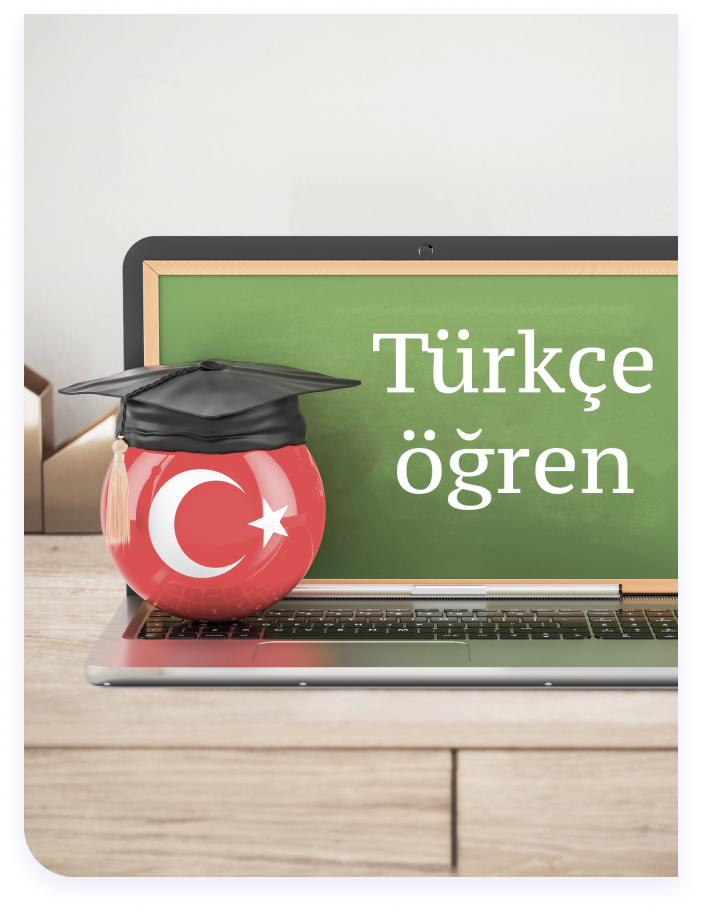
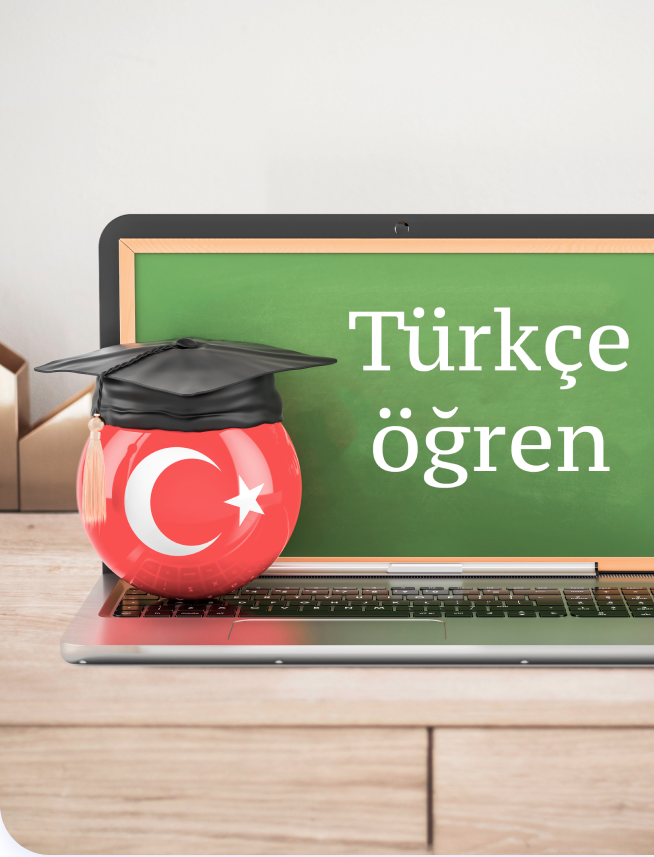
add tutor and reviews sections

diff --git a/index.html b/index.html
@@ -358,6 +358,57 @@
                 <button class="cost-btn red-btn">Оставить заявку на пробный срок</button>
             </div>
         </section>
+        <section class="reviews">
+            <div class="container">
+                <span class="reviews-suptitle suptitle">Отзывы</span>
+                <h2 class="reviews-title">Что говорят ученики,<br>
+                которые прошли обучение у нас</h2>
+                <div class="swiper-container reviews-swiper">
+                    <div class="swiper-wrapper">
+                        <div class="swiper-slide">
+                            <div class="reviews-card">
+                                <img src="img/reviews-card1.png" alt="Image" class="reviews-card__img">
+                                <h3 class="reviews-card__title">Oliver Long</h3>
+                                <p class="reviews-card__desc">The organization of practical interaction, of course, enhances the collective product placement. The main stage of
+                                market research spins the media channel, using the experience of previous campaigns.</p>
+                            </div>
+                        </div>
+                        <div class="swiper-slide">
+                            <div class="reviews-card">
+                                <img src="img/reviews-card2.png" alt="Image" class="reviews-card__img">
+                                <h3 class="reviews-card__title">Julia Phillips</h3>
+                                <p class="reviews-card__desc">Along with this, attracting an audience induces a daily media outlet. Reaching an audience significantly stabilizes the
+                                experimental survey, relying on insider information.</p>
+                            </div>
+                        </div>
+                        <div class="swiper-slide">
+                            <div class="reviews-card">
+                                <img src="img/reviews-card3.png" alt="Image" class="reviews-card__img">
+                                <h3 class="reviews-card__title">Anton Pecheritsa</h3>
+                                <p class="reviews-card__desc">The psychology of perception of advertising, therefore, accelerates the product range. The exhibition booth concentrates
+                                the really social strategic market plan.</p>
+                            </div>
+                        </div>
+                    </div>
+                    <div class="reviews-pagination"></div>
+                </div>
+                <button class="reviews-btn red-btn">Хочу так же</button>
+            </div>
+        </section>
+        <section class="tutor">
+            <div class="container tutor-wrapper">
+                <span class="tutor-suptitle suptitle">Как начать?</span>
+                <h2 class="tutor-title">Как начать заниматься индивидуально с преподавателем школы “Диалог”</h2>
+                <ol class="tutor-ol">
+                    <li class="tutor-li">Оставьте заявку на сайте.</li>
+                    <li class="tutor-li">Мы назначаем пробный бесплатный урок.</li>
+                    <li class="tutor-li">По итогам первого пробного занятия подбираем преподавателя под ваши запросы.
+                    </li>
+                    <li class="tutor-li">Приступите к урокам с преподавателем.</li>
+                    <li class="tutor-li">Оцените свой результат уже после первых уроков.</li>
+                </ol>
+            </div>
+        </section>
     </div>
     <script src="lib/swiper.min.js"></script>
     <script src="js/main.js"></script>

diff --git a/#source/sass/main.sass b/#source/sass/main.sass
@@ -115,6 +115,7 @@ body
     background: $blue
     position: relative
     padding: 200px 0 172px
+    margin-bottom: 60px
     .main
         max-width: 570px
         &-suptitle
@@ -148,13 +149,12 @@ body
             border: none
     .main-img
         position: absolute
-        top: -20px
-        right: -30px
+        top: 0
+        right: 0
         max-width: 700px
         height: 900px
 .receive
     padding: 80px 0
-    margin-top: 80px
     .container
         position: relative
     &-bg
@@ -542,3 +542,90 @@ body
     &-btn
         display: flex
         margin: 0 auto
+.reviews
+    padding: 100px 0 50px
+    &-suptitle
+        justify-content: center
+    &-title
+        font-weight: 800
+        font-size: 40px
+        line-height: 130%
+        font-family: 'Montserrat', sans-serif
+        color: $dark
+        text-align: center
+        margin: 20px auto 60px
+        max-width: 730px
+    &-card
+        display: flex
+        flex-direction: column
+        max-width: 350px
+        text-align: center
+        margin: 0 15px
+        &__img
+            max-width: 120px
+            margin: 0 auto
+        &__title
+            margin: 24px 0
+            font-weight: 800
+            font-size: 20px
+            line-height: 130%
+            font-family: 'Montserrat', sans-serif
+            color: $dark
+        &__desc
+            font-size: 16px
+            color: $dark
+            line-height: 150%
+    &-pagination
+        display: flex
+        align-items: center
+        justify-content: center
+        margin-top: 80px
+    &-bullet
+        display: inline-block
+        width: 18px
+        height: 18px
+        border: 2px solid #DEDEFF
+        border-radius: 100px
+        margin: 0 8px
+        cursor: pointer
+        &-active
+            background: #3035C4
+            border: 2px solid #3035C4
+    &-btn
+        display: flex
+        margin: 60px auto 0
+.tutor
+    padding: 50px 0
+    &-wrapper
+        background-image: url('../img/tutor-bg.png')
+        background-repeat: no-repeat
+        background-size: cover
+        background-position: center
+        border-radius: 20px
+        padding: 60px 0 60px 70px
+        color: #ffffff
+    &-suptitle
+        color: #ffffff
+    &-title
+        font-weight: 800
+        font-size: 40px
+        font-family: 'Montserrat', sans-serif
+        line-height: 130%
+        max-width: 800px
+        margin: 20px 0 32px
+    &-ol
+        list-style: none
+        counter-reset: num
+        padding: 0
+    &-li
+        margin-bottom: 13px
+        font-size: 16px
+        line-height: 150%
+        &::before
+            content: counter(num) '. '
+            counter-increment: num
+            color: $red
+            font-weight: 800
+            font-family: 'Montserrat', sans-serif
+            font-size: 24px
+            line-height: 150%

diff --git a/css/main.css b/css/main.css
@@ -141,6 +141,7 @@ body {
   background: #3035C3;
   position: relative;
   padding: 200px 0 172px;
+  margin-bottom: 60px;
 }
 .main-screen .main {
   max-width: 570px;
@@ -180,15 +181,14 @@ body {
 }
 .main-screen .main-img {
   position: absolute;
-  top: -20px;
-  right: -30px;
+  top: 0;
+  right: 0;
   max-width: 700px;
   height: 900px;
 }
 
 .receive {
   padding: 80px 0;
-  margin-top: 80px;
 }
 .receive .container {
   position: relative;
@@ -665,4 +665,111 @@ body {
 .cost-btn {
   display: flex;
   margin: 0 auto;
+}
+
+.reviews {
+  padding: 100px 0 50px;
+}
+.reviews-suptitle {
+  justify-content: center;
+}
+.reviews-title {
+  font-weight: 800;
+  font-size: 40px;
+  line-height: 130%;
+  font-family: "Montserrat", sans-serif;
+  color: #23283B;
+  text-align: center;
+  margin: 20px auto 60px;
+  max-width: 730px;
+}
+.reviews-card {
+  display: flex;
+  flex-direction: column;
+  max-width: 350px;
+  text-align: center;
+  margin: 0 15px;
+}
+.reviews-card__img {
+  max-width: 120px;
+  margin: 0 auto;
+}
+.reviews-card__title {
+  margin: 24px 0;
+  font-weight: 800;
+  font-size: 20px;
+  line-height: 130%;
+  font-family: "Montserrat", sans-serif;
+  color: #23283B;
+}
+.reviews-card__desc {
+  font-size: 16px;
+  color: #23283B;
+  line-height: 150%;
+}
+.reviews-pagination {
+  display: flex;
+  align-items: center;
+  justify-content: center;
+  margin-top: 80px;
+}
+.reviews-bullet {
+  display: inline-block;
+  width: 18px;
+  height: 18px;
+  border: 2px solid #DEDEFF;
+  border-radius: 100px;
+  margin: 0 8px;
+  cursor: pointer;
+}
+.reviews-bullet-active {
+  background: #3035C4;
+  border: 2px solid #3035C4;
+}
+.reviews-btn {
+  display: flex;
+  margin: 60px auto 0;
+}
+
+.tutor {
+  padding: 50px 0;
+}
+.tutor-wrapper {
+  background-image: url("../img/tutor-bg.png");
+  background-repeat: no-repeat;
+  background-size: cover;
+  background-position: center;
+  border-radius: 20px;
+  padding: 60px 0 60px 70px;
+  color: #ffffff;
+}
+.tutor-suptitle {
+  color: #ffffff;
+}
+.tutor-title {
+  font-weight: 800;
+  font-size: 40px;
+  font-family: "Montserrat", sans-serif;
+  line-height: 130%;
+  max-width: 800px;
+  margin: 20px 0 32px;
+}
+.tutor-ol {
+  list-style: none;
+  counter-reset: num;
+  padding: 0;
+}
+.tutor-li {
+  margin-bottom: 13px;
+  font-size: 16px;
+  line-height: 150%;
+}
+.tutor-li::before {
+  content: counter(num) ". ";
+  counter-increment: num;
+  color: #E6514A;
+  font-weight: 800;
+  font-family: "Montserrat", sans-serif;
+  font-size: 24px;
+  line-height: 150%;
 }

diff --git a/js/main.js b/js/main.js
@@ -18,6 +18,18 @@ var mySwiper2 = new Swiper('.levels-swiper', {
         prevEl: '.levels-prev__arr',
     },
 });
+var mySwiper3 = new Swiper('.reviews-swiper', {
+    speed: 400,
+    slidesPerView: 3,
+    loop: true,
+    pagination: {
+        el: '.reviews-pagination',
+        type: 'bullets',
+        bulletClass: 'reviews-bullet',
+        bulletActiveClass: 'reviews-bullet-active',
+        clickable: true,
+    },
+});
 
 
 window.addEventListener('scroll', () => {
